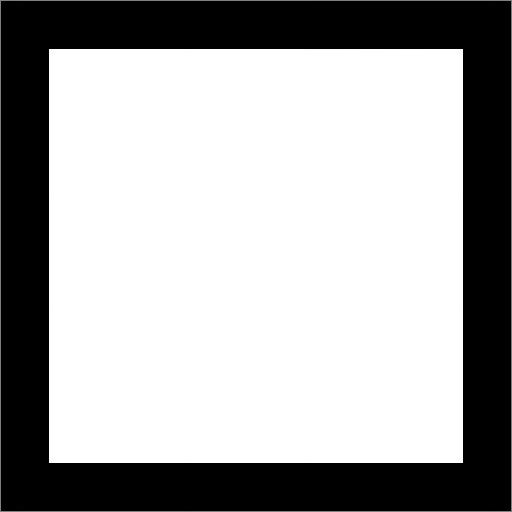
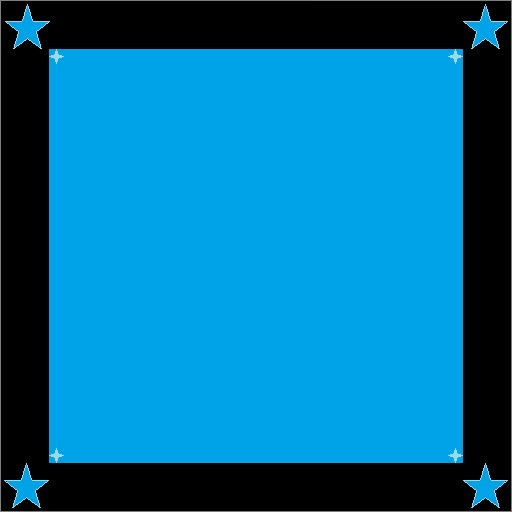
Tile Selection
Created tile Selection function

diff --git a/src/main.cpp b/src/main.cpp
@@ -203,6 +203,8 @@ struct Tile{
     int origin_shift_x; //value of translation from origin X
     int origin_shift_y; //value of translation from origin Y
     int origin_shift_z; //value of translation from origin Z
+
+    bool selected;
 };
 struct Stage{
     std::string name;
@@ -307,8 +309,10 @@ int main(int argc, char* argv[])
     LoadShadersFromFiles();
 
     // Carregamos duas imagens para serem utilizadas como textura
-    LoadTextureImage("../../data/selected.jpg");      // TextureImage0
+    LoadTextureImage("../../data/tc-earth_daymap_surface.jpg");      // TextureImage0
     LoadTextureImage("../../data/tc-earth_nightmap_citylights.gif"); // TextureImage1
+    LoadTextureImage("../../data/unselected.jpg"); // TextureImage2
+    LoadTextureImage("../../data/selected.jpg"); // TextureImage3
 
     // Construímos a representação de objetos geométricos através de malhas de triângulos
     ObjModel spheremodel("../../data/sphere.obj");
@@ -322,6 +326,10 @@ int main(int argc, char* argv[])
     ObjModel planemodel("../../data/plane.obj");
     ComputeNormals(&planemodel);
     BuildTrianglesAndAddToVirtualScene(&planemodel);
+
+    ObjModel selectedplanemodel("../../data/selectedplane.obj");
+    ComputeNormals(&selectedplanemodel);
+    BuildTrianglesAndAddToVirtualScene(&selectedplanemodel);
 
     if ( argc > 1 )
     {
@@ -429,6 +437,7 @@ int main(int argc, char* argv[])
         #define SPHERE 0
         #define BUNNY  1
         #define PLANE  2
+        #define SELECTEDPLANE  3
 
 
         // Desenhamos o modelo do coelho
@@ -440,7 +449,8 @@ int main(int argc, char* argv[])
 
         DrawTiles(stage1);
 
-        model = Matrix_Translate(stage1.tilesArray[selectedTile].origin_shift_x,0.0f,stage1.tilesArray[selectedTile].origin_shift_z);
+        model = Matrix_Translate(2.0f,0.0f,2.0f);
+     //   model = Matrix_Translate(stage1.tilesArray[selectedTile].origin_shift_x,0.0f,stage1.tilesArray[selectedTile].origin_shift_z);
         //   * Matrix_Rotate_X(g_AngleX + (float)glfwGetTime() * 0.1f);
         glUniformMatrix4fv(model_uniform, 1 , GL_FALSE , glm::value_ptr(model));
         glUniform1i(object_id_uniform, BUNNY);
@@ -504,6 +514,8 @@ Tile newTile(int id, float x, float y, float z){ //função para criar um Tile n
     returnedTile.origin_shift_y=y;
     returnedTile.origin_shift_z=z;
 
+    returnedTile.selected = false;
+
     return returnedTile;
 }
 
@@ -558,9 +570,28 @@ void DrawTile(Tile tile){ //this function draw tile per tile
     glm::mat4 model;
 
     model = Matrix_Translate(model_x,-1.1f,model_z);
-    glUniformMatrix4fv(model_uniform, 1 , GL_FALSE , glm::value_ptr(model));
-    glUniform1i(object_id_uniform, PLANE);
-    DrawVirtualObject("plane");
+
+    //testing
+    //if(tile.id==2){
+    //    model = Matrix_Translate(model_x,-0.1f,model_z);
+    //}
+
+    if(tile.id == selectedTile){
+        tile.selected=true;
+    }
+    else{
+        tile.selected=false;
+    }
+
+    if(tile.selected==true){
+        glUniformMatrix4fv(model_uniform, 1 , GL_FALSE , glm::value_ptr(model));
+        glUniform1i(object_id_uniform, SELECTEDPLANE);
+        DrawVirtualObject("selectedplane");
+    }else{
+        glUniformMatrix4fv(model_uniform, 1 , GL_FALSE , glm::value_ptr(model));
+        glUniform1i(object_id_uniform, PLANE);
+        DrawVirtualObject("plane");
+    }
 }
 
 void DrawTiles(Stage stage){
@@ -730,6 +761,7 @@ void LoadShadersFromFiles()
     glUniform1i(glGetUniformLocation(program_id, "TextureImage0"), 0);
     glUniform1i(glGetUniformLocation(program_id, "TextureImage1"), 1);
     glUniform1i(glGetUniformLocation(program_id, "TextureImage2"), 2);
+    glUniform1i(glGetUniformLocation(program_id, "TextureImage3"), 3);
     glUseProgram(0);
 }
 
